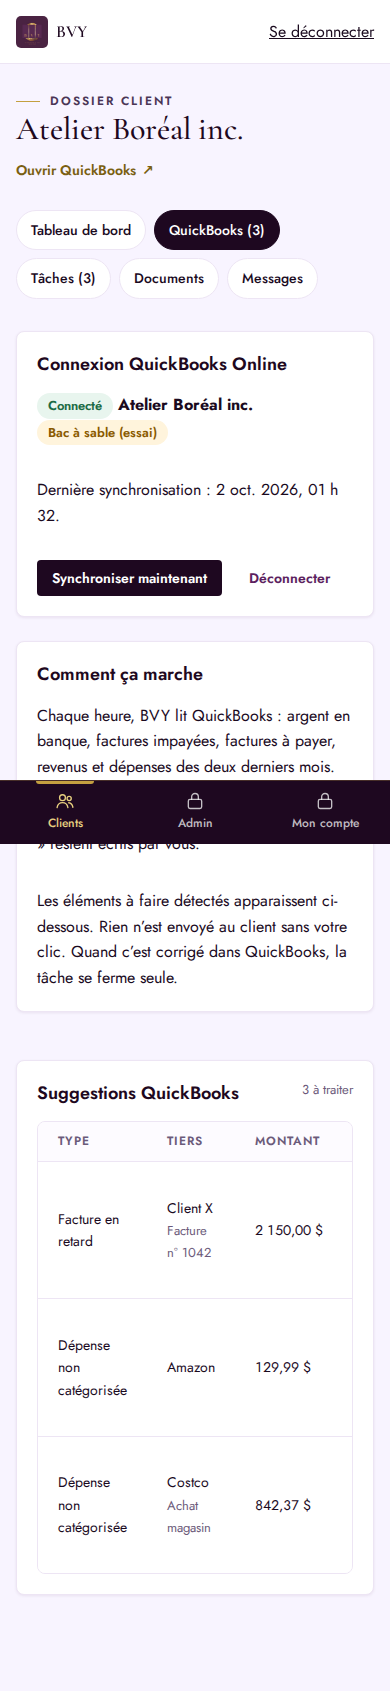
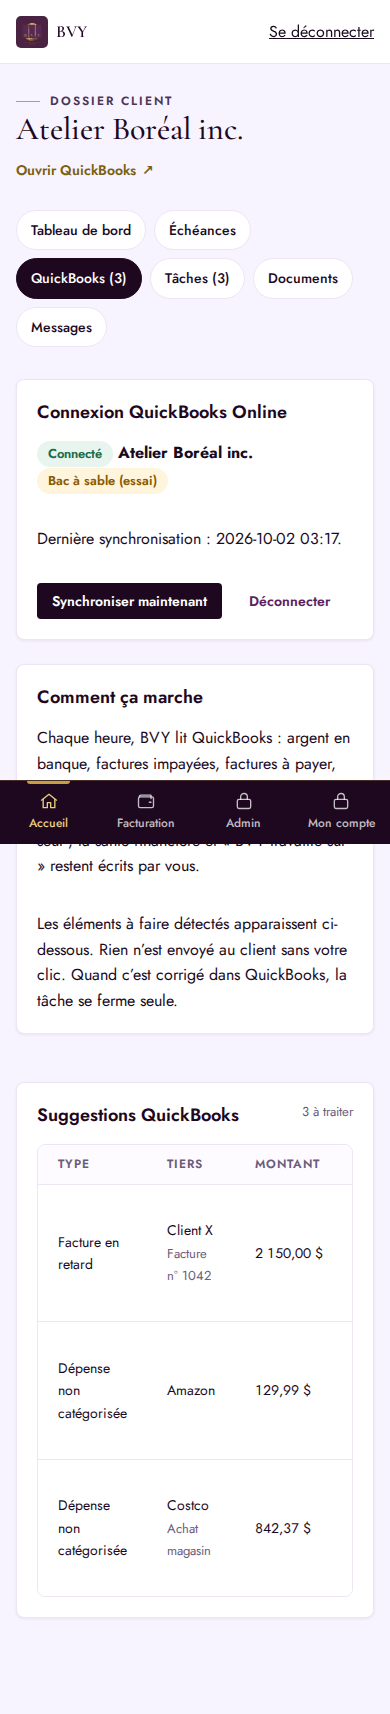
BVY portal: dates shown as 2026-10-02 everywhere (owner preference)
One shared formatter (lib/dates.js): YYYY-MM-DD for dates, YYYY-MM-DD HH:MM
(Quebec time) for timestamps; used by the dashboards, deadlines, billing,
client screens, audit log and the questions sent to clients. Tests updated.

Claude-Session: https://claude.ai/code/session_01TRM3YquBMTjpZKPZenWy7D

diff --git a/bvy-platform/apps/portal/test/workqueue.test.js b/bvy-platform/apps/portal/test/workqueue.test.js
@@ -144,7 +144,7 @@ test('tableau de bord de l’équipe : clients séparés par type, prochaine éc
     assert.match(decodeURIComponent(r.headers.location), /Profil fiscal enregistré/);
     const page = await admin.get(`/clients/${boreal}/echeances`);
     assert.match(page.body, /Retenues à la source — paies de septembre 2026/);
-    assert.match(page.body, /TPS\/TVQ — trimestre terminé le 30 septembre 2026/);
+    assert.match(page.body, /TPS\/TVQ — trimestre terminé le 2026-09-30/);
     // Les échéances d'avant la mise en place du profil ne sont pas « en retard »
     assert.ok(!/En retard/.test(page.body));
 
@@ -158,11 +158,11 @@ test('tableau de bord de l’équipe : clients séparés par type, prochaine éc
     assert.match(home.body, /<th scope="col">Tenue de livres<\/th><th scope="col">TPS\/TVQ<\/th><th scope="col"><abbr title="Retenues à la source \(et T4\/RL-1\)">RS<\/abbr><\/th><th scope="col">T2 \/ CO-17<\/th><th scope="col">CNESST<\/th>/);
     // Retenues : paies de septembre → 15 octobre (dans 13 jours) ; TPS/TVQ : 2 novembre ; T2 : 30 juin 2027 ; CNESST : 15 mars 2027
     const row = home.body.slice(home.body.indexOf('Atelier Boréal inc.'), home.body.indexOf('</tr>', home.body.indexOf('Atelier Boréal inc.')));
-    assert.match(row, /title="Retenues à la source — paies de septembre 2026[^"]*"><b>15 oct\.<\/b><span>dans 13 j<\/span>/);
-    assert.match(row, /title="TPS\/TVQ — trimestre terminé le 30 septembre 2026[^"]*"><b>2 nov\.<\/b>/);
+    assert.match(row, /title="Retenues à la source — paies de septembre 2026[^"]*"><b>2026-10-15<\/b><span>dans 13 j<\/span>/);
+    assert.match(row, /title="TPS\/TVQ — trimestre terminé le 2026-09-30[^"]*"><b>2026-11-02<\/b>/);
     // Colonne T2/CO-17 : la plus proche entre production, solde d'impôt et REQ → solde du 1er mars 2027
-    assert.match(row, /title="Solde d’impôt de la société \(exercice terminé le 31 décembre 2026\)[^"]*"><b>1 mars 2027<\/b>/);
-    assert.match(row, /CNESST — déclaration des salaires 2026[^"]*"><b>15 mars 2027<\/b>/);
+    assert.match(row, /title="Solde d’impôt de la société \(exercice terminé le 2026-12-31\)[^"]*"><b>2027-03-01<\/b>/);
+    assert.match(row, /CNESST — déclaration des salaires 2026[^"]*"><b>2027-03-15<\/b>/);
     assert.match(row, /<option value="todo" selected>Pas encore traité<\/option>/);
     assert.match(row, /1 tâche chez le client/);
     assert.match(row, /badge b-neutral">Non relié/);
@@ -184,12 +184,12 @@ test('tableau de bord de l’équipe : clients séparés par type, prochaine éc
     r = await admin.post(`/clients/${boreal}/echeances/marquer`, { key: 'das:2026-09', status: 'done' });
     assert.match(decodeURIComponent(r.headers.location), /marquée comme faite/);
     home = await admin.get('/accueil');
-    assert.match(home.body, /title="Retenues à la source — paies d’octobre 2026[^"]*"><b>16 nov\.<\/b>/);
+    assert.match(home.body, /title="Retenues à la source — paies d’octobre 2026[^"]*"><b>2026-11-16<\/b>/);
     // Échéance ajoutée à la main : visible dans « En attente » ; clé inconnue refusée
     await admin.get(`/clients/${boreal}/echeances`);
     await admin.post(`/clients/${boreal}/echeances`, { title: 'Répondre à Revenu Québec', date: '2026-10-09' });
     home = await admin.get('/accueil');
-    assert.match(home.body, /9 oct\. · Répondre à Revenu Québec/);
+    assert.match(home.body, /2026-10-09 · Répondre à Revenu Québec/);
     await admin.get(`/clients/${boreal}/echeances`);
     r = await admin.post(`/clients/${boreal}/echeances/marquer`, { key: 'das:1999-01', status: 'done' });
     assert.match(decodeURIComponent(r.headers.location), /Échéance introuvable/);
@@ -199,7 +199,7 @@ test('tableau de bord de l’équipe : clients séparés par type, prochaine éc
     t.db.prepare('DELETE FROM custom_deadlines').run();
     t.db.prepare('DELETE FROM deadline_marks').run();
     home = await admin.get('/accueil');
-    assert.match(home.body, /class="wq-due late"[^>]*><b>15 juil\.<\/b><span>en retard 79 j<\/span>/);
+    assert.match(home.body, /class="wq-due late"[^>]*><b>2026-07-15<\/b><span>en retard 79 j<\/span>/);
     assert.match(home.body, /\d échéances en retard/);
 
     // Tenue de livres : seulement ses clients assignés ; pas d'accès au cabinet
@@ -252,7 +252,7 @@ test('QuickBooks du cabinet : administrateur seulement, jamais un client ; somme
     // Facturation : Boréal reconnu par son nom (500 $ en retard depuis le 31 août) ; J. Tremblay pas encore lié
     let bill = await admin.get('/facturation');
     assert.match(bill.body, /Total impayé<\/small><b>870,50\s\$<\/b>/);
-    assert.match(bill.body, /Atelier Boréal inc\.[\s\S]*?620,50\s\$[\s\S]*?500,00\s\$[\s\S]*?depuis le 31 août 2026/);
+    assert.match(bill.body, /Atelier Boréal inc\.[\s\S]*?620,50\s\$[\s\S]*?500,00\s\$[\s\S]*?depuis le 2026-08-31/);
     assert.match(bill.body, /customerdetail\?nameId=11/);
     assert.match(bill.body, /Soldes non liés à un dossier BVY[\s\S]*J\. Tremblay/);
     assert.strictEqual((await lead.get('/facturation')).status, 200, 'le comptable principal voit la facturation');
@@ -286,7 +286,7 @@ test('QuickBooks du cabinet : administrateur seulement, jamais un client ; somme
     assert.strictEqual(t.db.prepare('SELECT kind FROM clients WHERE is_firm = 1').get().kind, 'entreprise', 'le cabinet reste une société');
     const adm = await admin.get('/admin');
     assert.match(adm.body, /Personnes et clients/);
-    assert.match(adm.body, /QBO du cabinet[\s\S]*Prochaines obligations de BVY[\s\S]*15 oct\./);
+    assert.match(adm.body, /QBO du cabinet[\s\S]*Prochaines obligations de BVY[\s\S]*2026-10-15/);
     await lead.get('/accueil');
     assert.strictEqual((await lead.post('/cabinet/profil', { gstFreq: 'none' })).status, 403);
     assert.ok(!/QBO du cabinet/.test((await lead.get('/admin')).body));

diff --git a/bvy-platform/apps/portal/lib/views-work.js b/bvy-platform/apps/portal/lib/views-work.js
@@ -8,13 +8,13 @@
 const { esc, appPage, pageHead, field, icon, csrfField } = require('./views.js');
 const { formatAmount } = require('./portal.js');
 const { KIND_ONE, GST_FREQ, dayFr } = require('./deadlines.js');
+const { isoDay, isoDateTime } = require('./dates.js');
 
 const MONTHS = ['janvier', 'février', 'mars', 'avril', 'mai', 'juin', 'juillet', 'août', 'septembre', 'octobre', 'novembre', 'décembre'];
 const URG = { late: 'b-act', week: 'b-watch', month: 'b-info', later: 'b-neutral' };
 const plural = (n, one, many) => `${n} ${n > 1 ? many : one}`;
 
-const SHORT = ['janv.', 'févr.', 'mars', 'avr.', 'mai', 'juin', 'juil.', 'août', 'sept.', 'oct.', 'nov.', 'déc.'];
-const shortDate = (date) => { const [y, m, d] = date.split('-').map(Number); const thisYear = new Date().getUTCFullYear(); return `${d} ${SHORT[m - 1]}${y !== thisYear ? ` ${y}` : ''}`; };
+const shortDate = (date) => isoDay(date);
 const BOOKS = { done: ['À jour', 'bk-done'], progress: ['En cours', 'bk-progress'], todo: ['Pas encore traité', 'bk-todo'] };
 
 // QuickBooks du client : connecté (vert), déconnecté (rouge), non relié (gris)
@@ -121,7 +121,7 @@ function billingPage(s, { data, firmQbo, flash }) {
   const kpis = `<div class="wq-kpis wq-kpis-3">
     ${tile('Total impayé', esc(formatAmount(data.total)), data.owing.length ? plural(data.owing.length, 'client doit', 'clients doivent') : 'aucun solde', '')}
     ${tile('En retard', esc(formatAmount(data.overdue)), data.overdue ? 'factures passées dues' : 'rien en retard', data.overdue ? 'down' : 'up')}
-    ${tile('Dernière lecture', data.syncedAt ? esc(new Intl.DateTimeFormat('fr-CA', { dateStyle: 'medium', timeStyle: 'short', timeZone: 'America/Toronto' }).format(new Date(data.syncedAt))) : '—', 'QuickBooks du cabinet, toutes les heures', '')}
+    ${tile('Dernière lecture', data.syncedAt ? esc(isoDateTime(data.syncedAt)) : '—', 'QuickBooks du cabinet, toutes les heures', '')}
   </div>`;
   const owing = data.owing.length ? `<div class="table-wrap"><table class="table"><thead><tr><th scope="col">Client</th><th scope="col">Type</th><th scope="col">Solde</th><th scope="col">En retard</th><th scope="col">Factures</th><th scope="col"><span class="sr-only">QuickBooks</span></th></tr></thead><tbody>
     ${data.owing.map((r) => `<tr><td><a class="link" href="/clients/${r.id}"><b>${esc(r.name)}</b></a></td><td>${esc(r.kind ? KIND_ONE[r.kind] : '—')}</td>
@@ -190,7 +190,7 @@ function firmPage(s, { qbo, enabled, deadlinesHtml, flash }) {
       <form class="mt-4" method="post" action="/cabinet/quickbooks/connecter">${csrf}<button class="btn btn-plum" type="submit">Relier le QuickBooks du cabinet</button></form>`
       : `<p><span class="badge ${connected ? (qbo.lastSyncStatus === 'failed' ? 'b-watch' : 'b-good') : 'b-act'}">${connected ? (qbo.lastSyncStatus === 'failed' ? 'Synchronisation en échec' : 'Connecté') : 'Déconnecté'}</span>
         ${qbo.companyName ? ` <b>${esc(qbo.companyName)}</b>` : ''}</p>
-      ${qbo.lastSyncAt ? `<p class="t-meta mt-4">Dernière lecture : ${esc(new Intl.DateTimeFormat('fr-CA', { dateStyle: 'medium', timeStyle: 'short', timeZone: 'America/Toronto' }).format(new Date(qbo.lastSyncAt)))}</p>` : ''}
+      ${qbo.lastSyncAt ? `<p class="t-meta mt-4">Dernière lecture : ${esc(isoDateTime(qbo.lastSyncAt))}</p>` : ''}
       ${qbo.lastError ? `<p class="t-meta">${esc(qbo.lastError)}</p>` : ''}
       <div class="btn-row mt-4">${connected ? `<form method="post" action="/cabinet/quickbooks/synchroniser">${csrf}<button class="btn btn-plum btn-sm" type="submit">Lire maintenant</button></form>` : `<form method="post" action="/cabinet/quickbooks/connecter">${csrf}<button class="btn btn-plum btn-sm" type="submit">Reconnecter</button></form>`}
         <a class="btn btn-outline btn-sm" href="/facturation">Voir la facturation</a>

diff --git a/bvy-platform/apps/portal/lib/views.js b/bvy-platform/apps/portal/lib/views.js
@@ -262,7 +262,7 @@ function homePage(s, { clients, flash }) {
 function accountPage(s, { sessions, pendingSecret, pendingUri, flash }) {
   const u = s.user;
   const csrf = csrfField(s);
-  const fmt = (ms) => new Intl.DateTimeFormat('fr-CA', { dateStyle: 'medium', timeStyle: 'short', timeZone: 'America/Toronto' }).format(new Date(ms));
+  const fmt = (ms) => require('./dates.js').isoDateTime(ms);
   const sessionRows = sessions.map((x) => `<tr><td>${esc(shortAgent(x.user_agent))}${x.id_hash === s.id_hash ? ' <span class="badge b-info">Cet appareil</span>' : ''}</td><td>${esc(fmt(x.last_seen))}</td>
     <td>${x.id_hash === s.id_hash ? '' : `<form method="post" action="/compte/sessions/fermer">${csrf}<input type="hidden" name="id" value="${esc(x.id_hash)}"><button class="btn btn-ghost btn-sm" type="submit">Fermer</button></form>`}</td></tr>`).join('');
 
@@ -363,7 +363,7 @@ function adminUserPage(s, { target, clients, assigned, flash }) {
 }
 
 function auditPage(s, { rows, names }) {
-  const fmt = (iso) => new Intl.DateTimeFormat('fr-CA', { dateStyle: 'short', timeStyle: 'medium', timeZone: 'America/Toronto' }).format(new Date(iso));
+  const fmt = (iso) => require('./dates.js').isoDateTime(iso, { seconds: true });
   const body = `${pageHead('Administration', 'Journal d’audit', 'Les 200 derniers événements. Ce journal ne peut être ni modifié ni effacé.')}
   <article class="card"><div class="table-wrap"><table class="table"><thead><tr><th scope="col">Date</th><th scope="col">Personne</th><th scope="col">Action</th><th scope="col">Cible</th><th scope="col">Adresse IP</th></tr></thead><tbody>
   ${rows.map((r) => `<tr><td class="t-mono">${esc(fmt(r.at))}</td><td>${esc(r.user_id ? names[r.user_id] || `#${r.user_id}` : '—')}</td><td>${esc(r.action)}</td><td>${esc(r.target || '')}</td><td class="t-mono">${esc(r.ip || '')}</td></tr>`).join('')}

diff --git a/bvy-platform/apps/portal/lib/dates.js b/bvy-platform/apps/portal/lib/dates.js
@@ -1,0 +1,34 @@
+'use strict';
+
+/**
+ * Format des dates du portail, choisi par le propriétaire : 2026-10-02 (et 2026-10-02 14:30 avec l'heure).
+ * Heure du Québec (America/Toronto) pour les horodatages ; une date seule (AAAA-MM-JJ) est reprise telle quelle.
+ */
+
+const TZ = 'America/Toronto';
+const DAY_RE = /^\d{4}-\d{2}-\d{2}$/;
+const parts = (d, opts) => Object.fromEntries(new Intl.DateTimeFormat('en-CA', { timeZone: TZ, hourCycle: 'h23', ...opts }).formatToParts(d).map((p) => [p.type, p.value]));
+
+function isoDay(x) {
+  if (x === null || x === undefined || x === '') return '';
+  if (typeof x === 'string' && DAY_RE.test(x)) return x;
+  const d = new Date(x);
+  if (Number.isNaN(d.getTime())) return '';
+  const p = parts(d, { year: 'numeric', month: '2-digit', day: '2-digit' });
+  return `${p.year}-${p.month}-${p.day}`;
+}
+
+function isoDateTime(x, { seconds = false } = {}) {
+  const d = new Date(x);
+  if (Number.isNaN(d.getTime())) return '';
+  const p = parts(d, { year: 'numeric', month: '2-digit', day: '2-digit', hour: '2-digit', minute: '2-digit', ...(seconds ? { second: '2-digit' } : {}) });
+  return `${p.year}-${p.month}-${p.day} ${p.hour}:${p.minute}${seconds ? `:${p.second}` : ''}`;
+}
+
+const WEEKDAYS = ['dimanche', 'lundi', 'mardi', 'mercredi', 'jeudi', 'vendredi', 'samedi'];
+function todayLabel(now = Date.now()) {
+  const day = isoDay(now);
+  return `${WEEKDAYS[new Date(`${day}T12:00:00Z`).getUTCDay()]} ${day}`;
+}
+
+module.exports = { isoDay, isoDateTime, todayLabel, TZ };

diff --git a/bvy-platform/apps/portal/test/qbo.test.js b/bvy-platform/apps/portal/test/qbo.test.js
@@ -224,7 +224,7 @@ test('suggestion envoyée au client, puis fermée toute seule quand c’est corr
     assert.match(decodeURIComponent(r.headers.location), /Tâche envoyée au client/);
     const task = t.db.prepare('SELECT * FROM tasks').get();
     assert.strictEqual(task.kind, 'question');
-    assert.match(task.title, /^Nous avons trouvé un paiement de 842,37\s\$ à Costco le 18 septembre 2026\. Était-ce une dépense d’entreprise \?$/);
+    assert.match(task.title, /^Nous avons trouvé un paiement de 842,37\s\$ à Costco le 2026-09-18\. Était-ce une dépense d’entreprise \?$/);
     assert.strictEqual(task.qbo_url, 'https://app.sandbox.qbo.intuit.com/app/expense?txnId=901');
 
     const marie = await t.login('marie@boreal.ca');
@@ -352,7 +352,7 @@ test('non catégorisé : opérations anciennes (février 2026) et de tous types 
     await staff.get(`/clients/${t.boreal.id}/quickbooks`);
     await staff.post(`/suggestions/${dep.id}/envoyer`);
     const task = t.db.prepare('SELECT title, choices FROM tasks ORDER BY id DESC').get();
-    assert.match(task.title, /^Nous avons trouvé un dépôt de 1\s500,00\s\$ le 11 février 2026\. D’où vient cet argent \?$/);
+    assert.match(task.title, /^Nous avons trouvé un dépôt de 1\s500,00\s\$ le 2026-02-11\. D’où vient cet argent \?$/);
     assert.deepStrictEqual(JSON.parse(task.choices), ['Une vente ou un revenu d’entreprise', 'Un apport personnel ou un prêt', 'Autre']);
   } finally { t.app.close(); }
 });

diff --git a/bvy-platform/apps/portal/lib/views-portal.js b/bvy-platform/apps/portal/lib/views-portal.js
@@ -9,9 +9,7 @@ const { esc, appPage, pageHead, field, icon, csrfField } = require('./views.js')
 const { formatAmount, HEALTH, KINDS } = require('./portal.js');
 
 const TZ = 'America/Toronto';
-const dateFr = (iso) => (iso ? new Intl.DateTimeFormat('fr-CA', { dateStyle: 'long', timeZone: /^\d{4}-\d{2}-\d{2}$/.test(iso) ? 'UTC' : TZ }).format(new Date(iso)) : '');
-const dateTimeFr = (iso) => new Intl.DateTimeFormat('fr-CA', { dateStyle: 'medium', timeStyle: 'short', timeZone: TZ }).format(new Date(iso));
-const todayFr = () => new Intl.DateTimeFormat('fr-CA', { weekday: 'long', day: 'numeric', month: 'long', year: 'numeric', timeZone: TZ }).format(new Date());
+const { isoDay: dateFr, isoDateTime: dateTimeFr, todayLabel: todayFr } = require('./dates.js');
 const size = (n) => (n < 1024 * 1024 ? `${Math.max(1, Math.round(n / 1024))} Ko` : `${(n / 1024 / 1024).toFixed(1).replace('.', ',')} Mo`);
 const qboLink = (url, label = 'Voir dans QuickBooks') => (url
   ? `<a class="qbo-link" href="${esc(url)}" target="_blank" rel="noopener">${esc(label)} <span aria-hidden="true">↗</span><span class="sr-only">(nouvel onglet)</span></a>` : '');

diff --git a/bvy-platform/apps/portal/lib/qbo-sync.js b/bvy-platform/apps/portal/lib/qbo-sync.js
@@ -18,7 +18,7 @@ const sha = (s) => crypto.createHash('sha256').update(String(s)).digest('hex');
 const cents = (v) => Math.round(Number(v || 0) * 100);
 const ymd = (ms) => new Date(ms).toISOString().slice(0, 10);
 const money = (c) => new Intl.NumberFormat('fr-CA', { style: 'currency', currency: 'CAD' }).format(c / 100);
-const dateFr = (iso) => new Intl.DateTimeFormat('fr-CA', { day: 'numeric', month: 'long', year: 'numeric', timeZone: 'UTC' }).format(new Date(`${iso}T00:00:00Z`));
+const { isoDay: dateFr } = require('./dates.js');
 const monthFr = (y, m) => new Intl.DateTimeFormat('fr-CA', { month: 'long', timeZone: 'UTC' }).format(new Date(Date.UTC(y, m, 1)));
 const plural = (n, one, many) => `${n} ${n > 1 ? many : one}`;
 

diff --git a/bvy-platform/apps/portal/lib/deadlines.js b/bvy-platform/apps/portal/lib/deadlines.js
@@ -31,7 +31,8 @@ function businessDay(date) {
 }
 const MONTHS = ['janvier', 'février', 'mars', 'avril', 'mai', 'juin', 'juillet', 'août', 'septembre', 'octobre', 'novembre', 'décembre'];
 const deMois = (m) => (/^[aeiouyéè]/i.test(MONTHS[m - 1]) ? `d’${MONTHS[m - 1]}` : `de ${MONTHS[m - 1]}`);
-const dayFr = (date) => { const [y, m, d] = date.split('-').map(Number); return `${d === 1 ? '1er' : d} ${MONTHS[m - 1]} ${y}`; };
+// Format choisi par le propriétaire : 2026-10-02
+const dayFr = (date) => date;
 
 function computeDeadlines(profile, today, { back = 90, ahead = 400 } = {}) {
   const p = profile || {};

diff --git a/bvy-platform/apps/portal/test/portal.test.js b/bvy-platform/apps/portal/test/portal.test.js
@@ -111,7 +111,7 @@ test('tableau de bord : publié par BVY, vu par le client avec explication ; jam
     const marie = await t.login('marie@boreal.ca');
     const home = await marie.get('/accueil');
     assert.match(home.body, /48\s215,60\s\$/);
-    assert.match(home.body, /Chiffres au 30 septembre 2026/);
+    assert.match(home.body, /Chiffres au 2026-09-30/);
     assert.match(home.body, /À surveiller/);
     assert.match(home.body, /plus vite que vos revenus/);
     assert.match(home.body, /class="fill p85"/);

diff --git a/bvy-platform/apps/portal/public/assets/portal.css b/bvy-platform/apps/portal/public/assets/portal.css
@@ -174,3 +174,4 @@ a.wq-due:hover{filter:brightness(.97);border-color:currentColor}
 .wq-books select{max-width:136px}
 .wq-list .wq-due{min-width:76px}
 .wq-table abbr{text-decoration:none;cursor:help}
+.wq-books select{max-width:none;min-width:142px}
